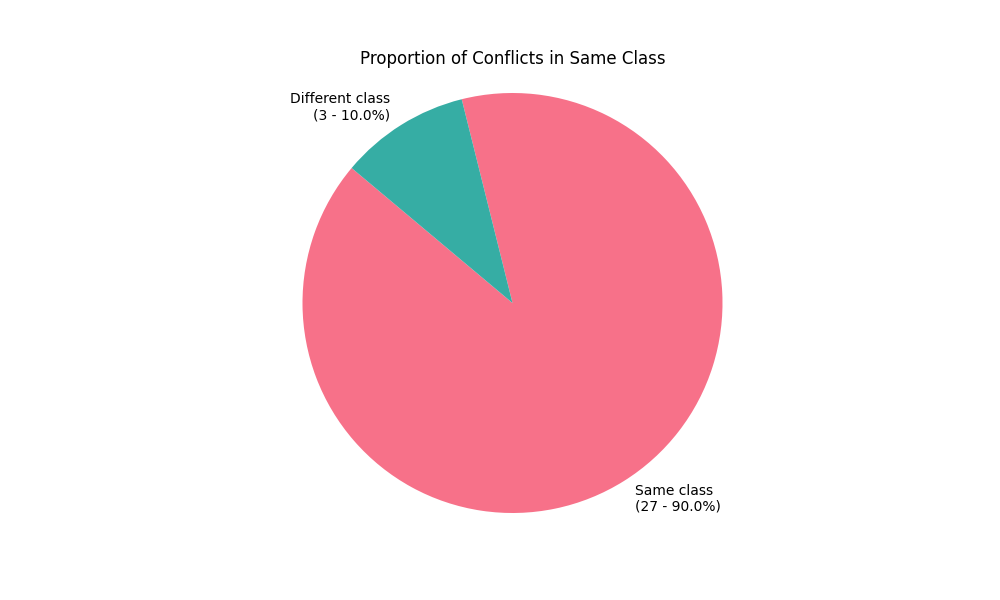
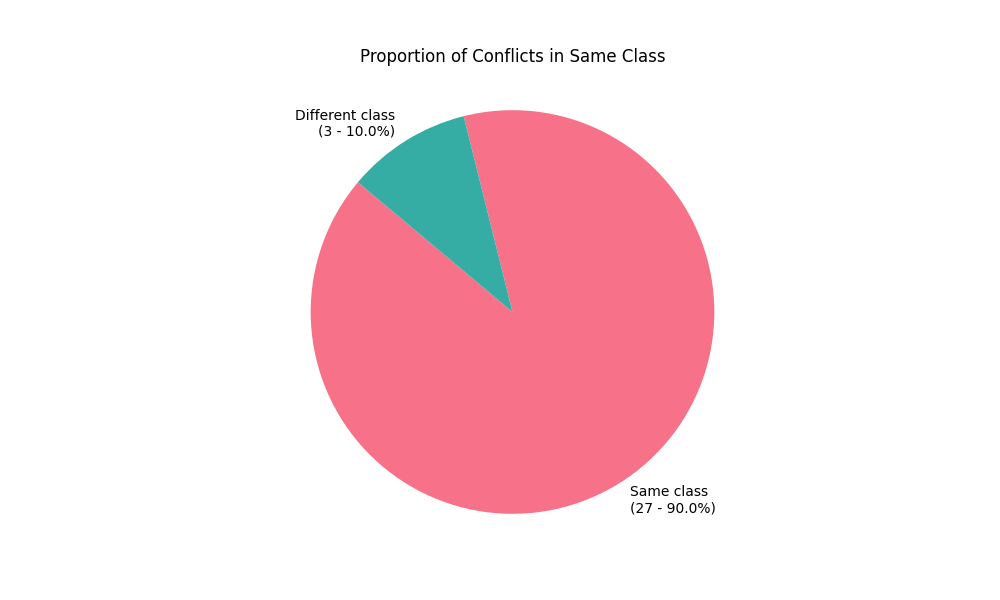
fixing title

diff --git a/OA-analysis-report/visualization.py b/OA-analysis-report/visualization.py
@@ -31,7 +31,8 @@ class Visualizer:
                 colors=sns.color_palette("husl", len(data['labels']))
         )
         plt.axis('equal')
-        plt.title(title)
+        plt.title(title, pad=20)
+        plt.subplots_adjust(top=0.85)
         plt.savefig(filename)
         plt.close()
 
